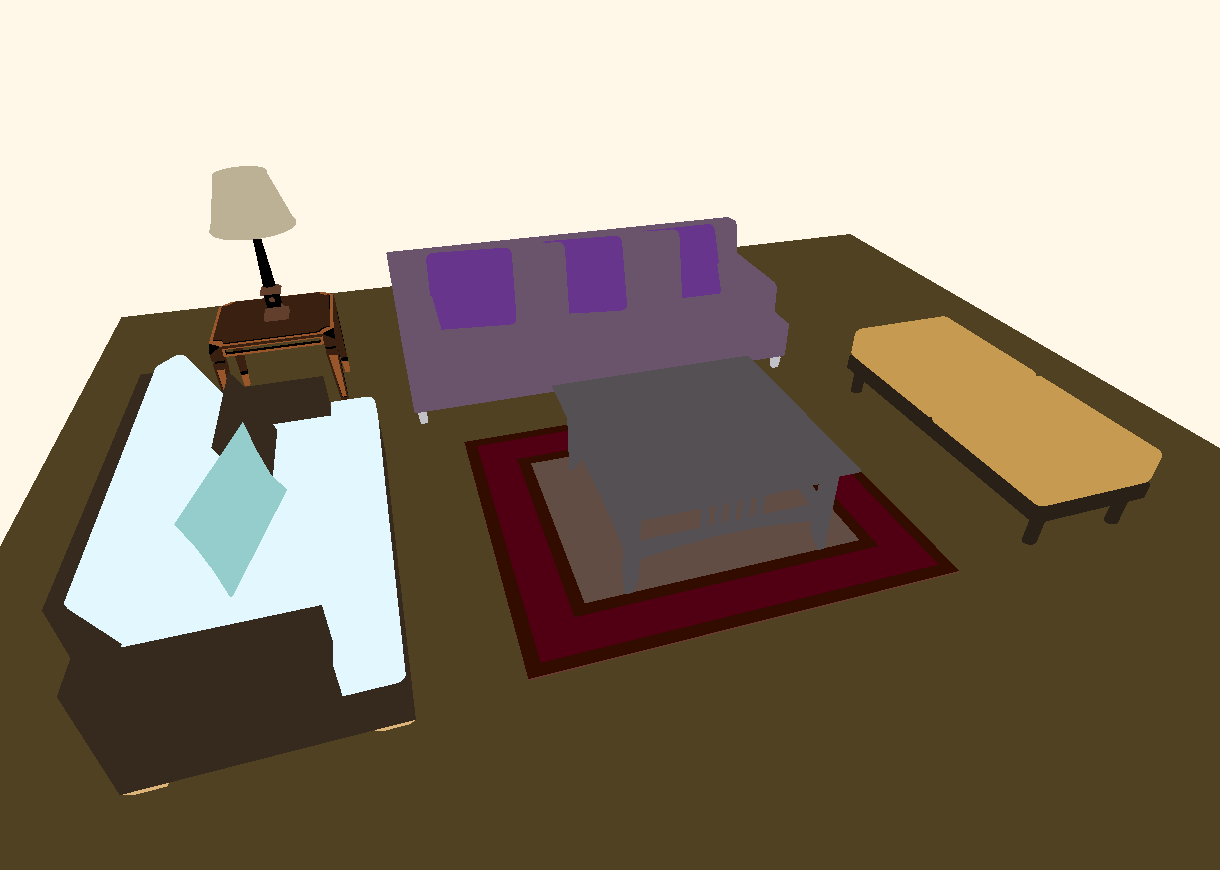
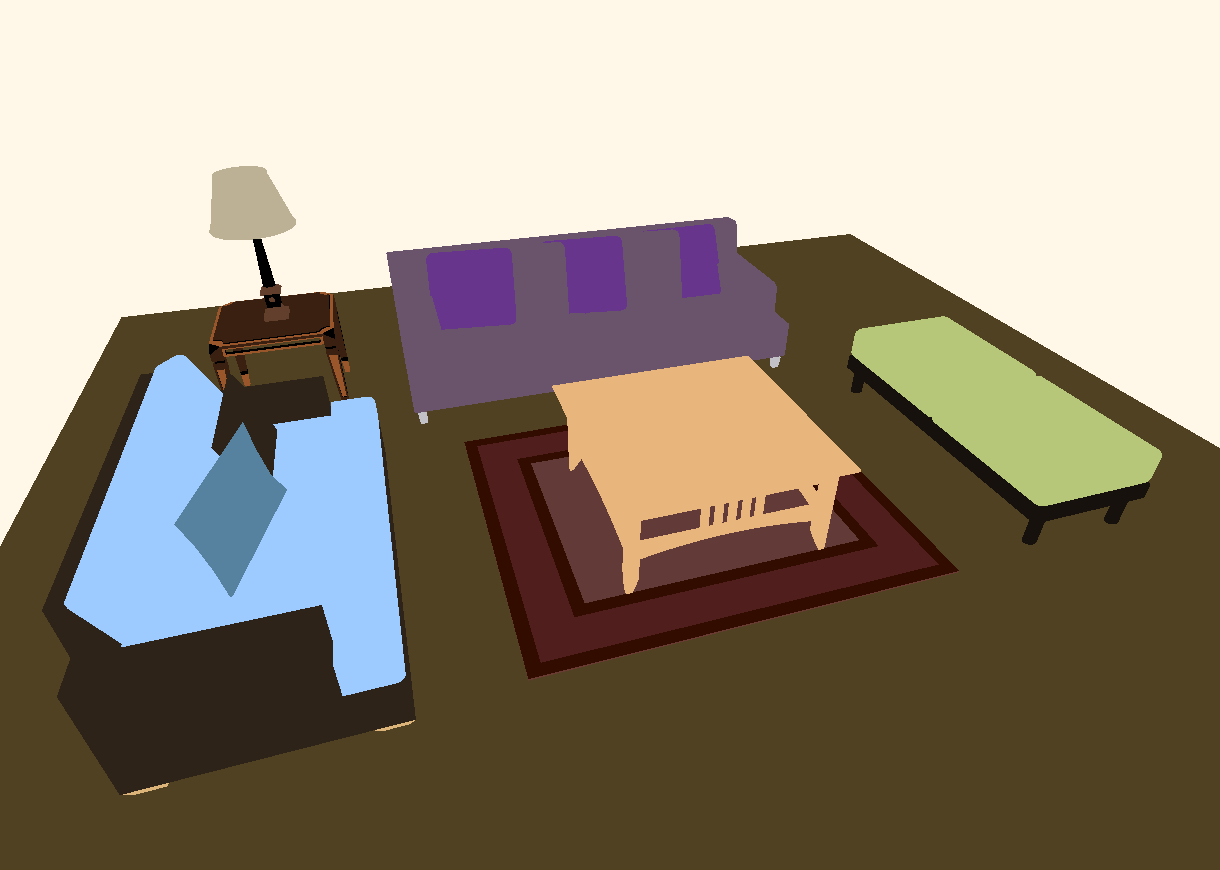
New results for webpage recoloring and 3d scene recoloring.

Changed region(s): [[0.3738, 0.4034, 0.7787, 0.7759], [0.0311, 0.4034, 0.3426, 0.8069], [0.6852, 0.3414, 0.9656, 0.5897]]

diff --git a/latex/siggraph2013/results.tex b/latex/siggraph2013/results.tex
@@ -120,7 +120,7 @@ Artist A&Artist B\\
 \subsection{Applications}
 
 \paragraph{Web design}
-Our model can assist web designers by suggesting recolorings for web page pattern elements. In Figure~\ref{fig:webpageRecoloring}, the background pattern of a blog is recolored according to different seasons; the blog author could use a different coloring depending on the time of year. We generate these recolorings by adding new factors to the model. First, we add a unary factor to each color variable that encourages it to be similar to a color that occurs in the web page body:
+A web designer may want to change a web page's color theme to fit the season, a special event, or even the time of day. Our model can support these tasks by suggesting recolorings for web page pattern elements. In Figure~\ref{fig:webpageRecoloring}, the background pattern of a blog is automatically recolored in three distinct styles. Each style is defined by a manually-specified page body color and header text color. We generate these recolorings by adding new factors to the model. First, we add a unary factor to each color variable that encourages it to be similar to a color that occurs in the web page body:
 %%
 \begin{equation*}
 \factor^\textrm{WebSim}(\colorVars_\group | \webpage) = p(\colorVars_\group | \webpage)
@@ -139,7 +139,7 @@ Incoporating this term ensures that the body of the page stands out from the res
 \begin{figure}[ht!]
 \centering
 \includegraphics[width=\columnwidth]{figs/webpageRecoloring}
-\caption{With a few additional factors, our model can recolor the background of a web page in concert with the colors in the page body. (Top) A Spring-themed seasonal recoloring. (Middle) A Summer-themed recoloring. (Bottom) A Winter-themed recoloring. Design adapted from \url{www.thedesigncubicle.com}}
+\caption{With a few additional factors, our model can recolor the background pattern of a web page to match the colors in the page body.}
 \label{fig:webpageRecoloring}
 \end{figure}
 
@@ -149,8 +149,8 @@ Color-coordinating a virtual scene is another creative task that can benefit fro
 \begin{figure*}[ht!]
 \begin{tabular}{c|ccc} 
 Original&Recoloring 1&Recoloring 2&Recoloring 3\vspace{0.4em}\\
-\includegraphics[width=.23\linewidth]{figs/3dscene/original}&\includegraphics[width=.23\linewidth]{figs/3dscene/recolored_00}&\includegraphics[width=.23\linewidth]{figs/3dscene/recolored_01}&\includegraphics[width=.23\linewidth]{figs/3dscene/recolored_05}\vspace{0.4em}\\
-\includegraphics[width=.23\linewidth]{figs/3dscene/original_pbrt}&\includegraphics[width=.23\linewidth]{figs/3dscene/recolored_00_pbrt}&\includegraphics[width=.23\linewidth]{figs/3dscene/recolored_01_pbrt}&\includegraphics[width=.23\linewidth]{figs/3dscene/recolored_05_pbrt}\vspace{0.4em}\\
+\includegraphics[width=.23\linewidth]{figs/3dscene/original}&\includegraphics[width=.23\linewidth]{figs/3dscene/recolored_17}&\includegraphics[width=.23\linewidth]{figs/3dscene/recolored_03}&\includegraphics[width=.23\linewidth]{figs/3dscene/recolored_15}\vspace{0.4em}\\
+\includegraphics[width=.23\linewidth]{figs/3dscene/original_pbrt}&\includegraphics[width=.23\linewidth]{figs/3dscene/recolored_17_pbrt}&\includegraphics[width=.23\linewidth]{figs/3dscene/recolored_03_pbrt}&\includegraphics[width=.23\linewidth]{figs/3dscene/recolored_15_pbrt}\vspace{0.4em}\\
 \end{tabular}
 
 \caption{A poorly color-coordinated 3D scene is recolored using our model. Using the original coloring as a soft constraint, our model suggests multiple novel recolorings; here we show the top three suggestions. (Top) Diffuse material coefficients for each object. (Bottom) Final renderings of each scene.}
